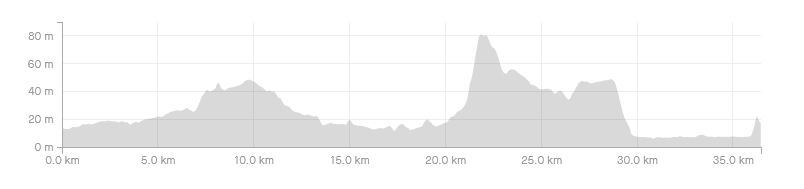
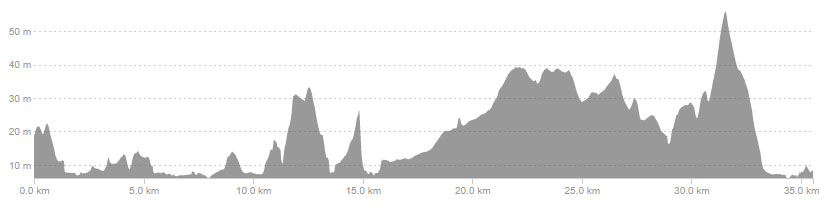
Add files via upload

diff --git a/stage_7.html b/stage_7.html
@@ -91,8 +91,8 @@ var target = "results_ew";
             
             <div class="stage_chart">
             	<h2>East to West</h2>
-            	<img src="img/Warrington_Liverpool.jpg" width="800" height="190" alt="chart" /><br/>
-            	<a href="https://drive.google.com/file/d/1GeNYcPASpUEcbkOt9nCi-8ERR_ABDvs2/view?usp=sharing">Download GPX file</a>
+            	<img src="img/Liverpool_Warrington.jpg" width="800" height="190" alt="chart" /><br/>
+            	<a href="https://drive.google.com/file/d/129u6rYDju68XtKKS_tl7p4JMrJfmGw24/view?usp=sharing">Download GPX file</a>
             </div>
             <div class="stage_results">
             	<div id="results_ew">west to east results</div>
